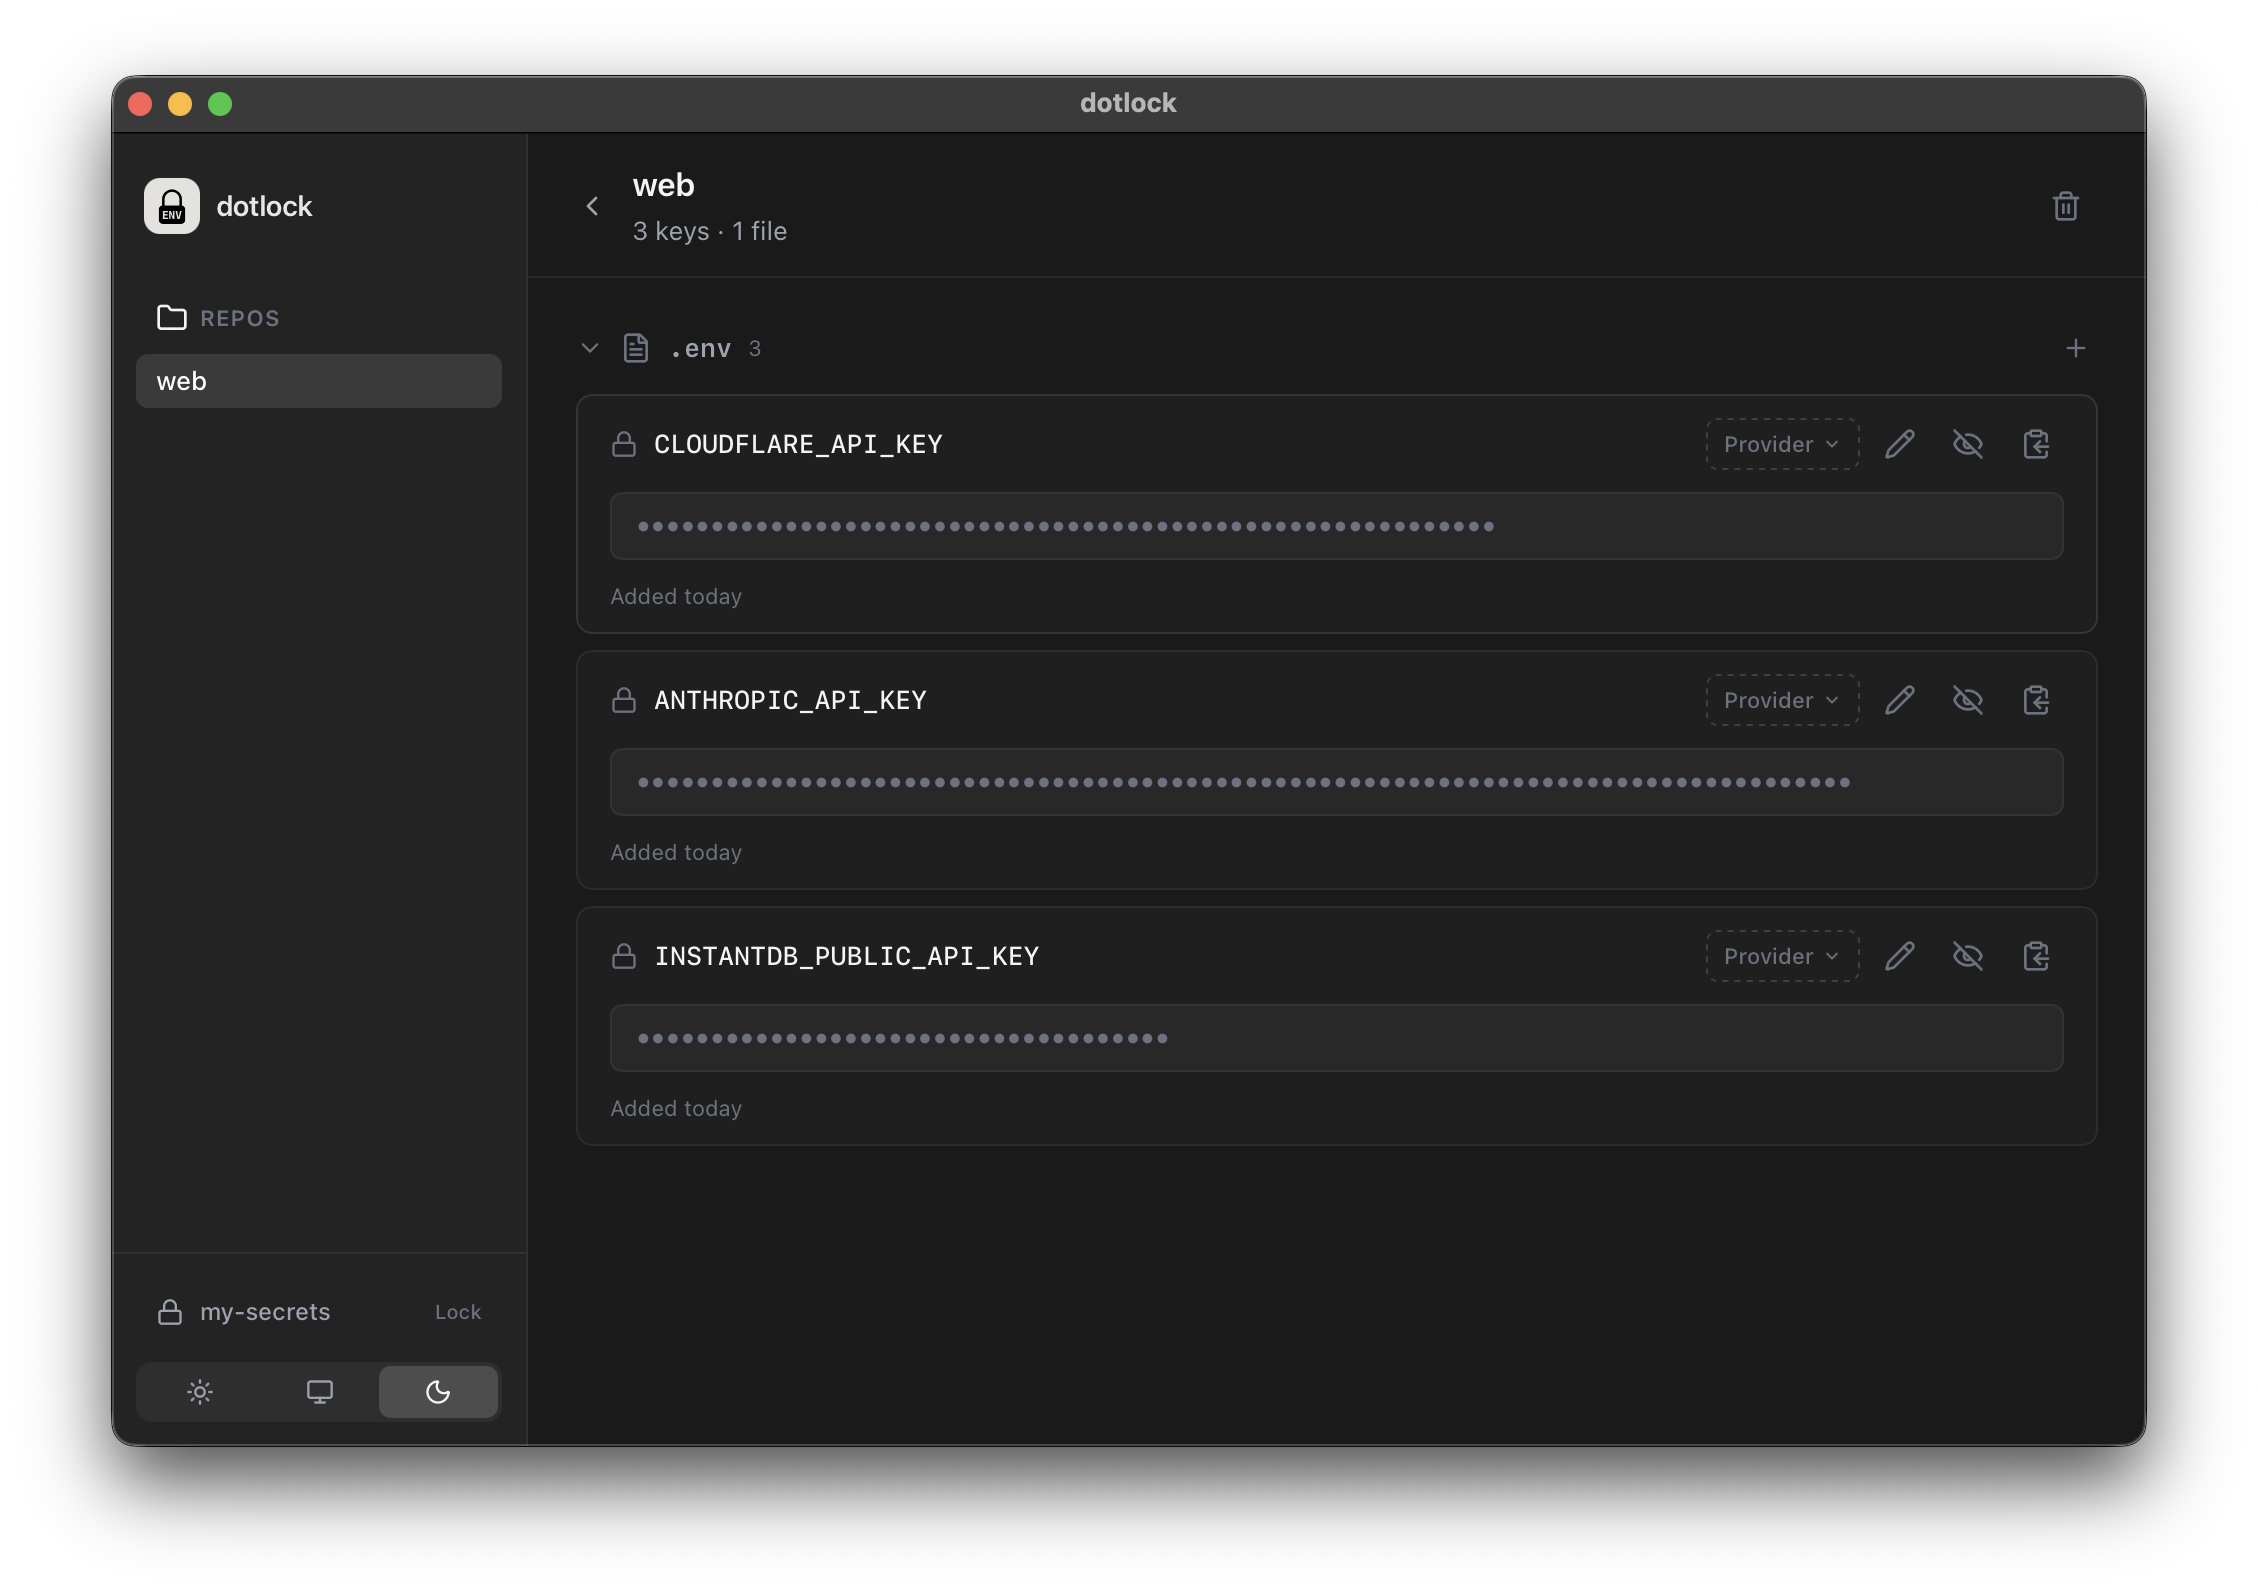
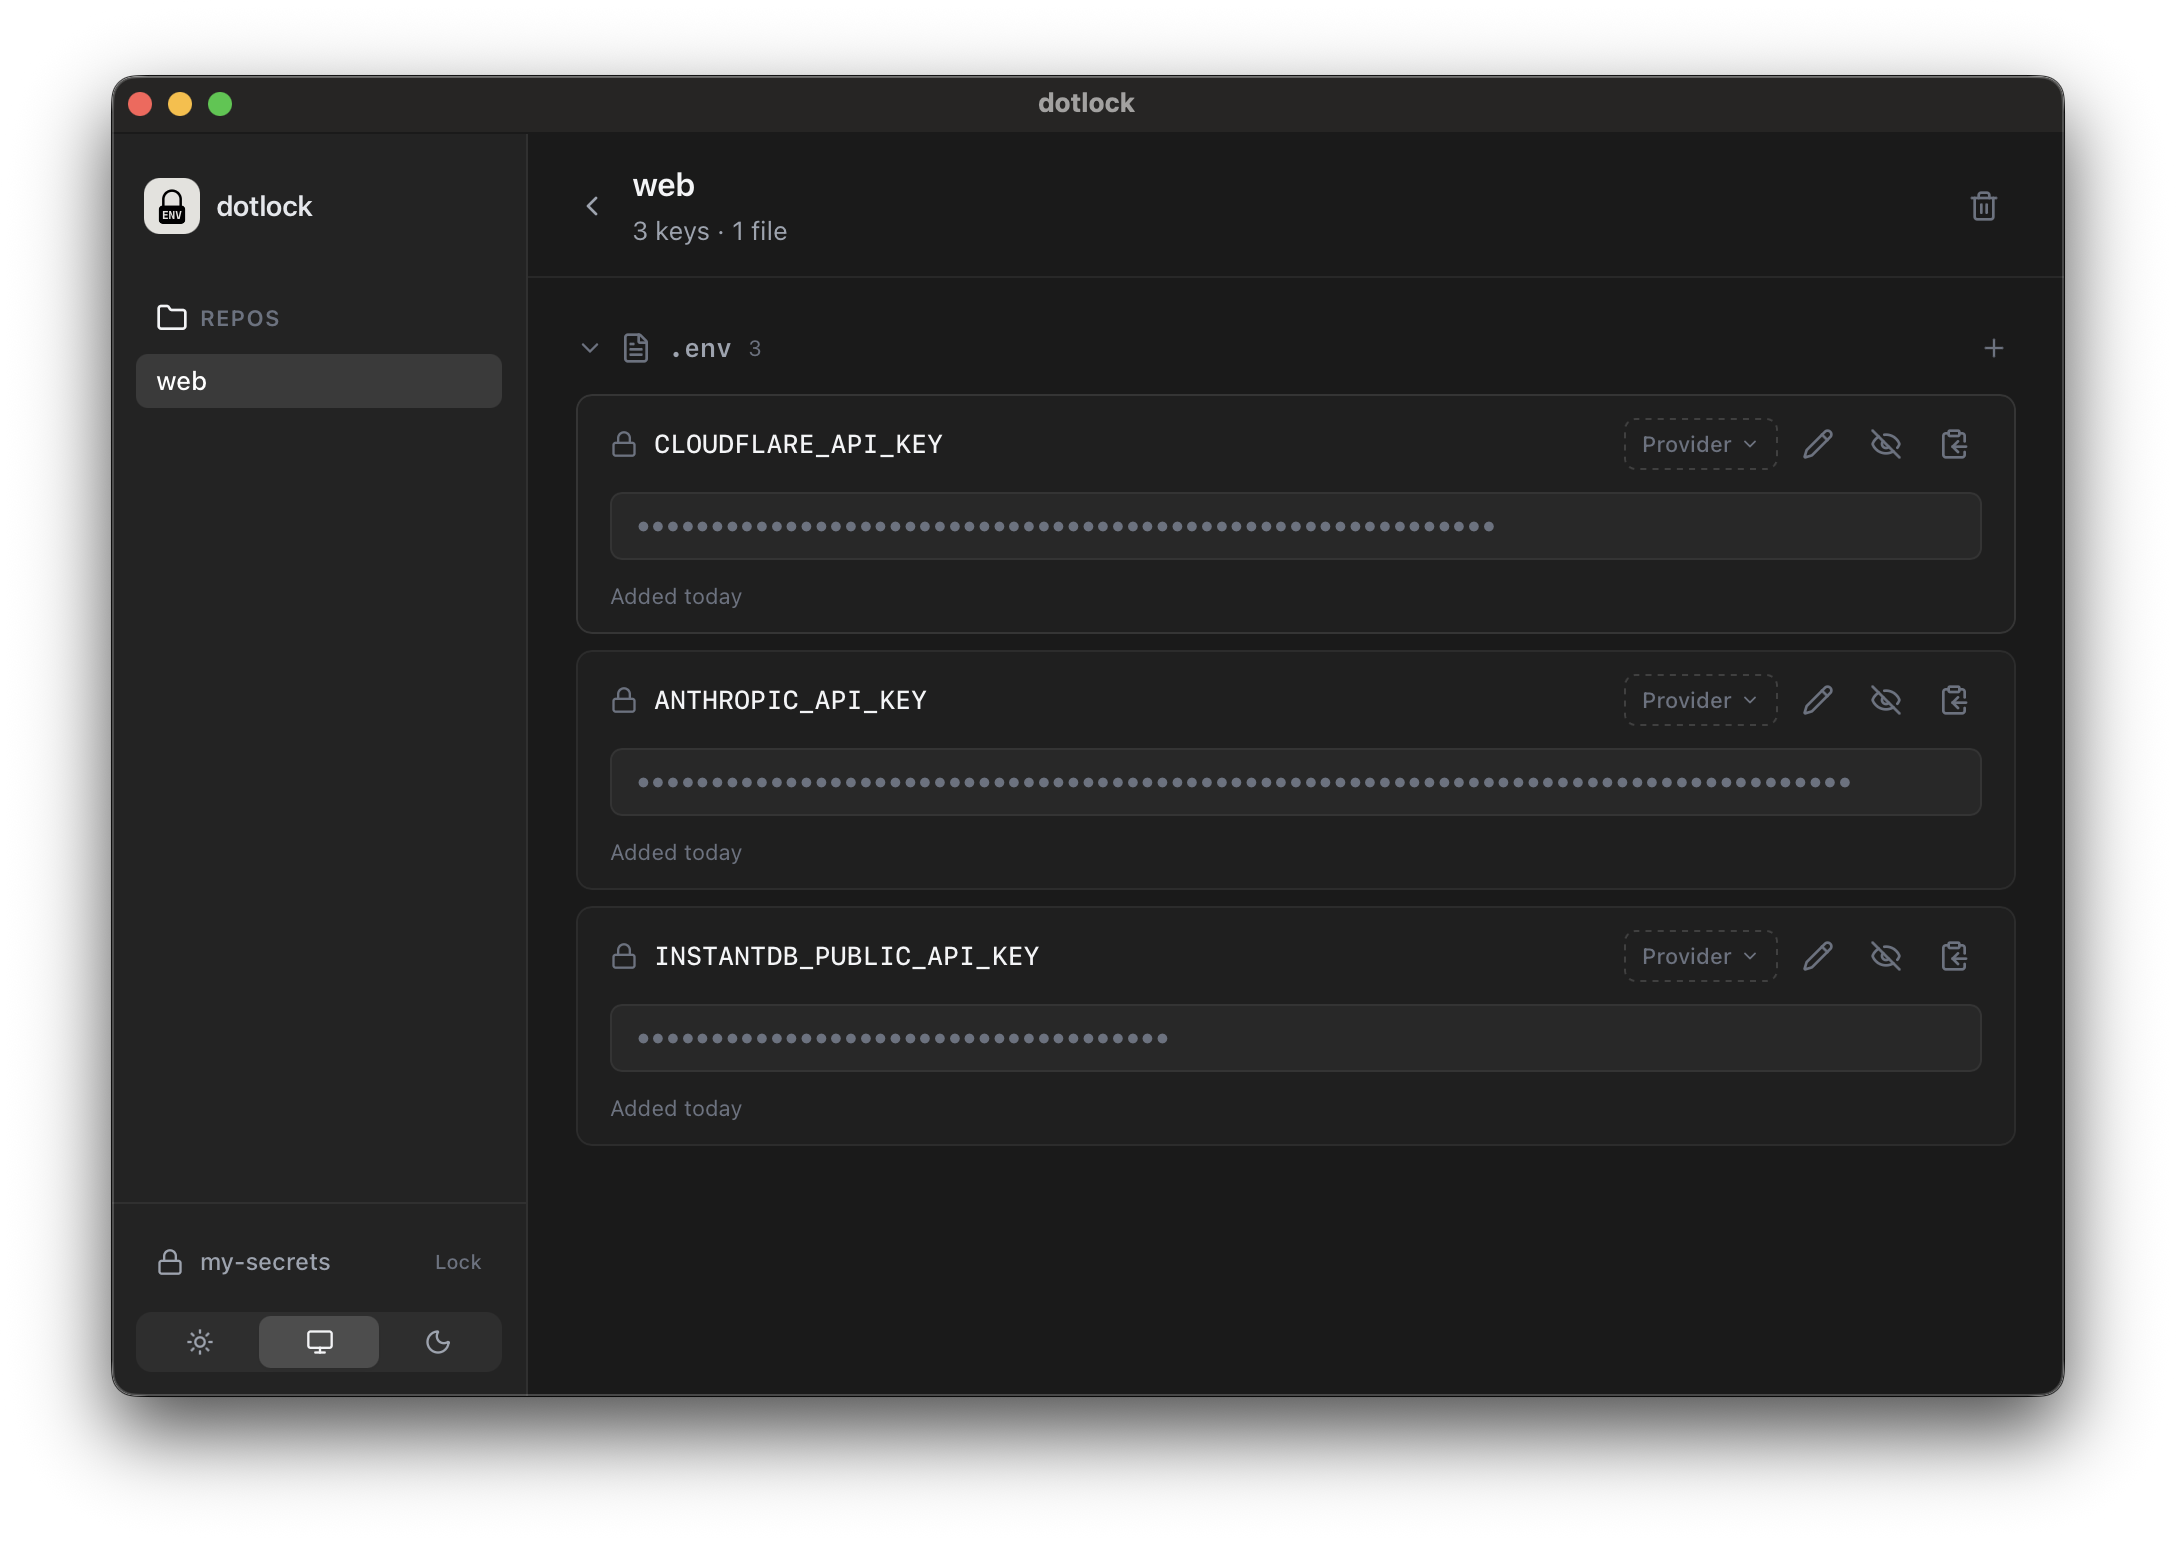
Cosmic silk massive (#33)
* Add horizontal screenshot carousel with left/right panning

Replaces the static 2-column grid with a scrollable carousel that supports
swipe, trackpad, and arrow button navigation. Adds a duplicate dashboard
screenshot as a third slide. Responsive: 85% width cards on mobile, original
50% sizing on desktop.

* Add new screenshots to carousel (add, edit, drift detection)

* Add cursor-pointer to screenshot carousel arrow buttons

* Update index.tsx

---------

diff --git a/web/src/routes/index.tsx b/web/src/routes/index.tsx
@@ -1,5 +1,5 @@
 import { createFileRoute } from "@tanstack/react-router";
-import { useEffect, useState } from "react";
+import { useCallback, useEffect, useRef, useState } from "react";
 import { Logo } from "../components/Logo";
 import { DOWNLOAD_URL } from "../lib/constants";
 
@@ -354,11 +354,79 @@ function Lightbox({
   );
 }
 
+const screenshots = [
+  {
+    src: "/screenshot-dashboard.png",
+    alt: "dotlock dashboard showing project overview",
+    label: "DASHBOARD",
+  },
+  {
+    src: "/screenshot-detail.png",
+    alt: "dotlock project detail showing key management",
+    label: "MANAGE KEYS",
+  },
+  {
+    src: "/screenshot-add.png",
+    alt: "dotlock new key dialog",
+    label: "ADD KEY",
+  },
+  {
+    src: "/screenshot-edit.png",
+    alt: "dotlock edit key dialog",
+    label: "EDIT KEY",
+  },
+  {
+    src: "/screenshot-drift.png",
+    alt: "dotlock drift detection showing file changed on disk",
+    label: "DRIFT DETECTION",
+  },
+];
+
 function Screenshots() {
   const [lightbox, setLightbox] = useState<{
     src: string;
     label: string;
   } | null>(null);
+  const scrollRef = useRef<HTMLDivElement>(null);
+  const [canScrollLeft, setCanScrollLeft] = useState(false);
+  const [canScrollRight, setCanScrollRight] = useState(true);
+
+  const checkScroll = useCallback(() => {
+    const el = scrollRef.current;
+    if (!el) {
+      return;
+    }
+    setCanScrollLeft(el.scrollLeft > 2);
+    setCanScrollRight(el.scrollLeft < el.scrollWidth - el.clientWidth - 2);
+  }, []);
+
+  useEffect(() => {
+    const el = scrollRef.current;
+    if (!el) {
+      return;
+    }
+    checkScroll();
+    el.addEventListener("scroll", checkScroll, { passive: true });
+    window.addEventListener("resize", checkScroll);
+    return () => {
+      el.removeEventListener("scroll", checkScroll);
+      window.removeEventListener("resize", checkScroll);
+    };
+  }, [checkScroll]);
+
+  const scroll = (direction: "left" | "right") => {
+    const el = scrollRef.current;
+    if (!el) {
+      return;
+    }
+    const cardWidth =
+      el.querySelector<HTMLElement>(":scope > div")?.offsetWidth ??
+      el.clientWidth * 0.6;
+    el.scrollBy({
+      left: direction === "left" ? -cardWidth - 24 : cardWidth + 24,
+      behavior: "smooth",
+    });
+  };
 
   return (
     <>
@@ -368,19 +436,75 @@ function Screenshots() {
             <SidebarLabel>THE APP</SidebarLabel>
           </div>
           <div className="lg:col-span-9 px-6 py-8 lg:px-12 lg:py-16">
-            <div className="grid grid-cols-1 md:grid-cols-2 gap-6">
-              <ScreenshotCard
-                src="/screenshot-dashboard.png"
-                alt="dotlock dashboard showing project overview"
-                label="DASHBOARD"
-                onOpen={(src, label) => setLightbox({ src, label })}
-              />
-              <ScreenshotCard
-                src="/screenshot-detail.png"
-                alt="dotlock project detail showing key management"
-                label="MANAGE KEYS"
-                onOpen={(src, label) => setLightbox({ src, label })}
-              />
+            {/* Navigation arrows */}
+            <div className="flex items-center justify-end gap-2 mb-4">
+              <button
+                type="button"
+                onClick={() => scroll("left")}
+                disabled={!canScrollLeft}
+                className="w-9 h-9 flex items-center justify-center border border-divider text-jet hover:bg-jet hover:text-cream cursor-pointer disabled:opacity-20 disabled:cursor-not-allowed transition-colors duration-200"
+                aria-label="Previous screenshot"
+              >
+                <svg
+                  width="14"
+                  height="14"
+                  viewBox="0 0 14 14"
+                  fill="none"
+                  xmlns="http://www.w3.org/2000/svg"
+                >
+                  <path
+                    d="M9 2L4 7L9 12"
+                    stroke="currentColor"
+                    strokeWidth="1.5"
+                    strokeLinecap="square"
+                  />
+                </svg>
+              </button>
+              <button
+                type="button"
+                onClick={() => scroll("right")}
+                disabled={!canScrollRight}
+                className="w-9 h-9 flex items-center justify-center border border-divider text-jet hover:bg-jet hover:text-cream cursor-pointer disabled:opacity-20 disabled:cursor-not-allowed transition-colors duration-200"
+                aria-label="Next screenshot"
+              >
+                <svg
+                  width="14"
+                  height="14"
+                  viewBox="0 0 14 14"
+                  fill="none"
+                  xmlns="http://www.w3.org/2000/svg"
+                >
+                  <path
+                    d="M5 2L10 7L5 12"
+                    stroke="currentColor"
+                    strokeWidth="1.5"
+                    strokeLinecap="square"
+                  />
+                </svg>
+              </button>
+            </div>
+
+            {/* Scrollable track */}
+            <div
+              ref={scrollRef}
+              data-screenshot-track=""
+              className="flex gap-6 overflow-x-auto snap-x snap-mandatory scroll-smooth"
+              style={{ scrollbarWidth: "none" }}
+            >
+              <style>{`[data-screenshot-track]::-webkit-scrollbar { display: none; }`}</style>
+              {screenshots.map((s) => (
+                <div
+                  key={s.src}
+                  className="snap-start shrink-0 w-[85%] md:w-[calc(50%-12px)]"
+                >
+                  <ScreenshotCard
+                    src={s.src}
+                    alt={s.alt}
+                    label={s.label}
+                    onOpen={(src, label) => setLightbox({ src, label })}
+                  />
+                </div>
+              ))}
             </div>
           </div>
         </div>
